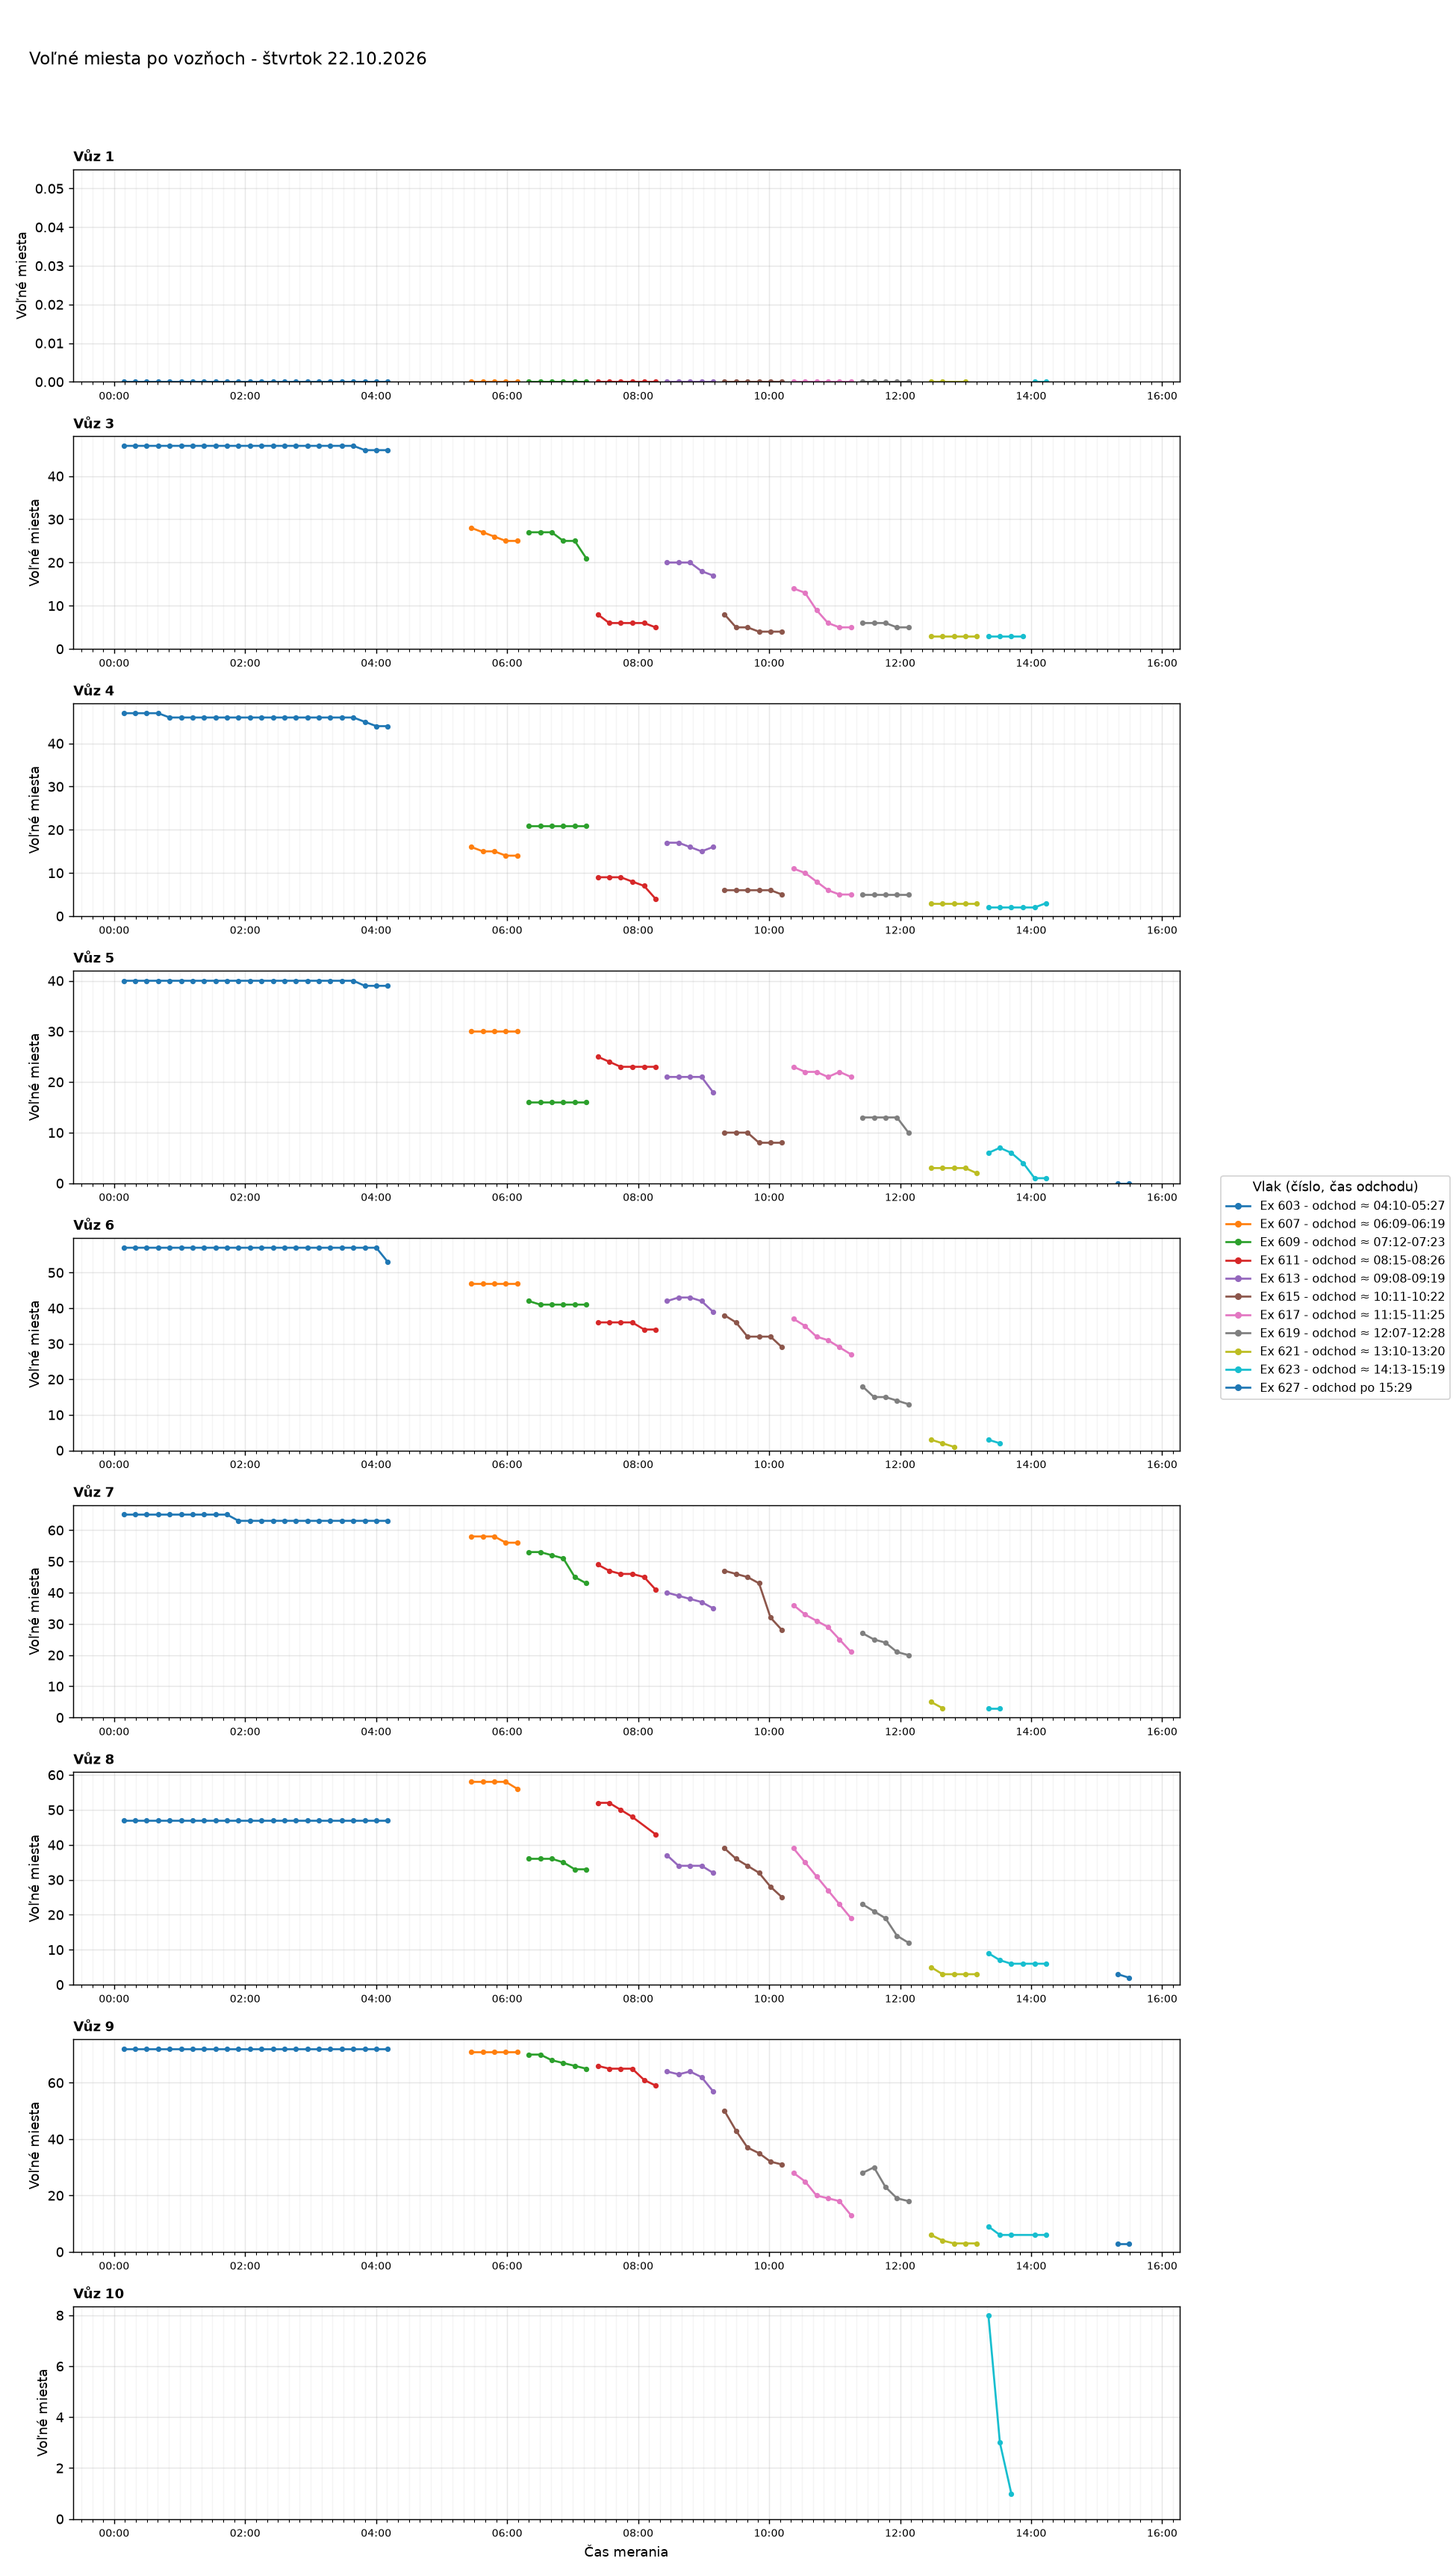
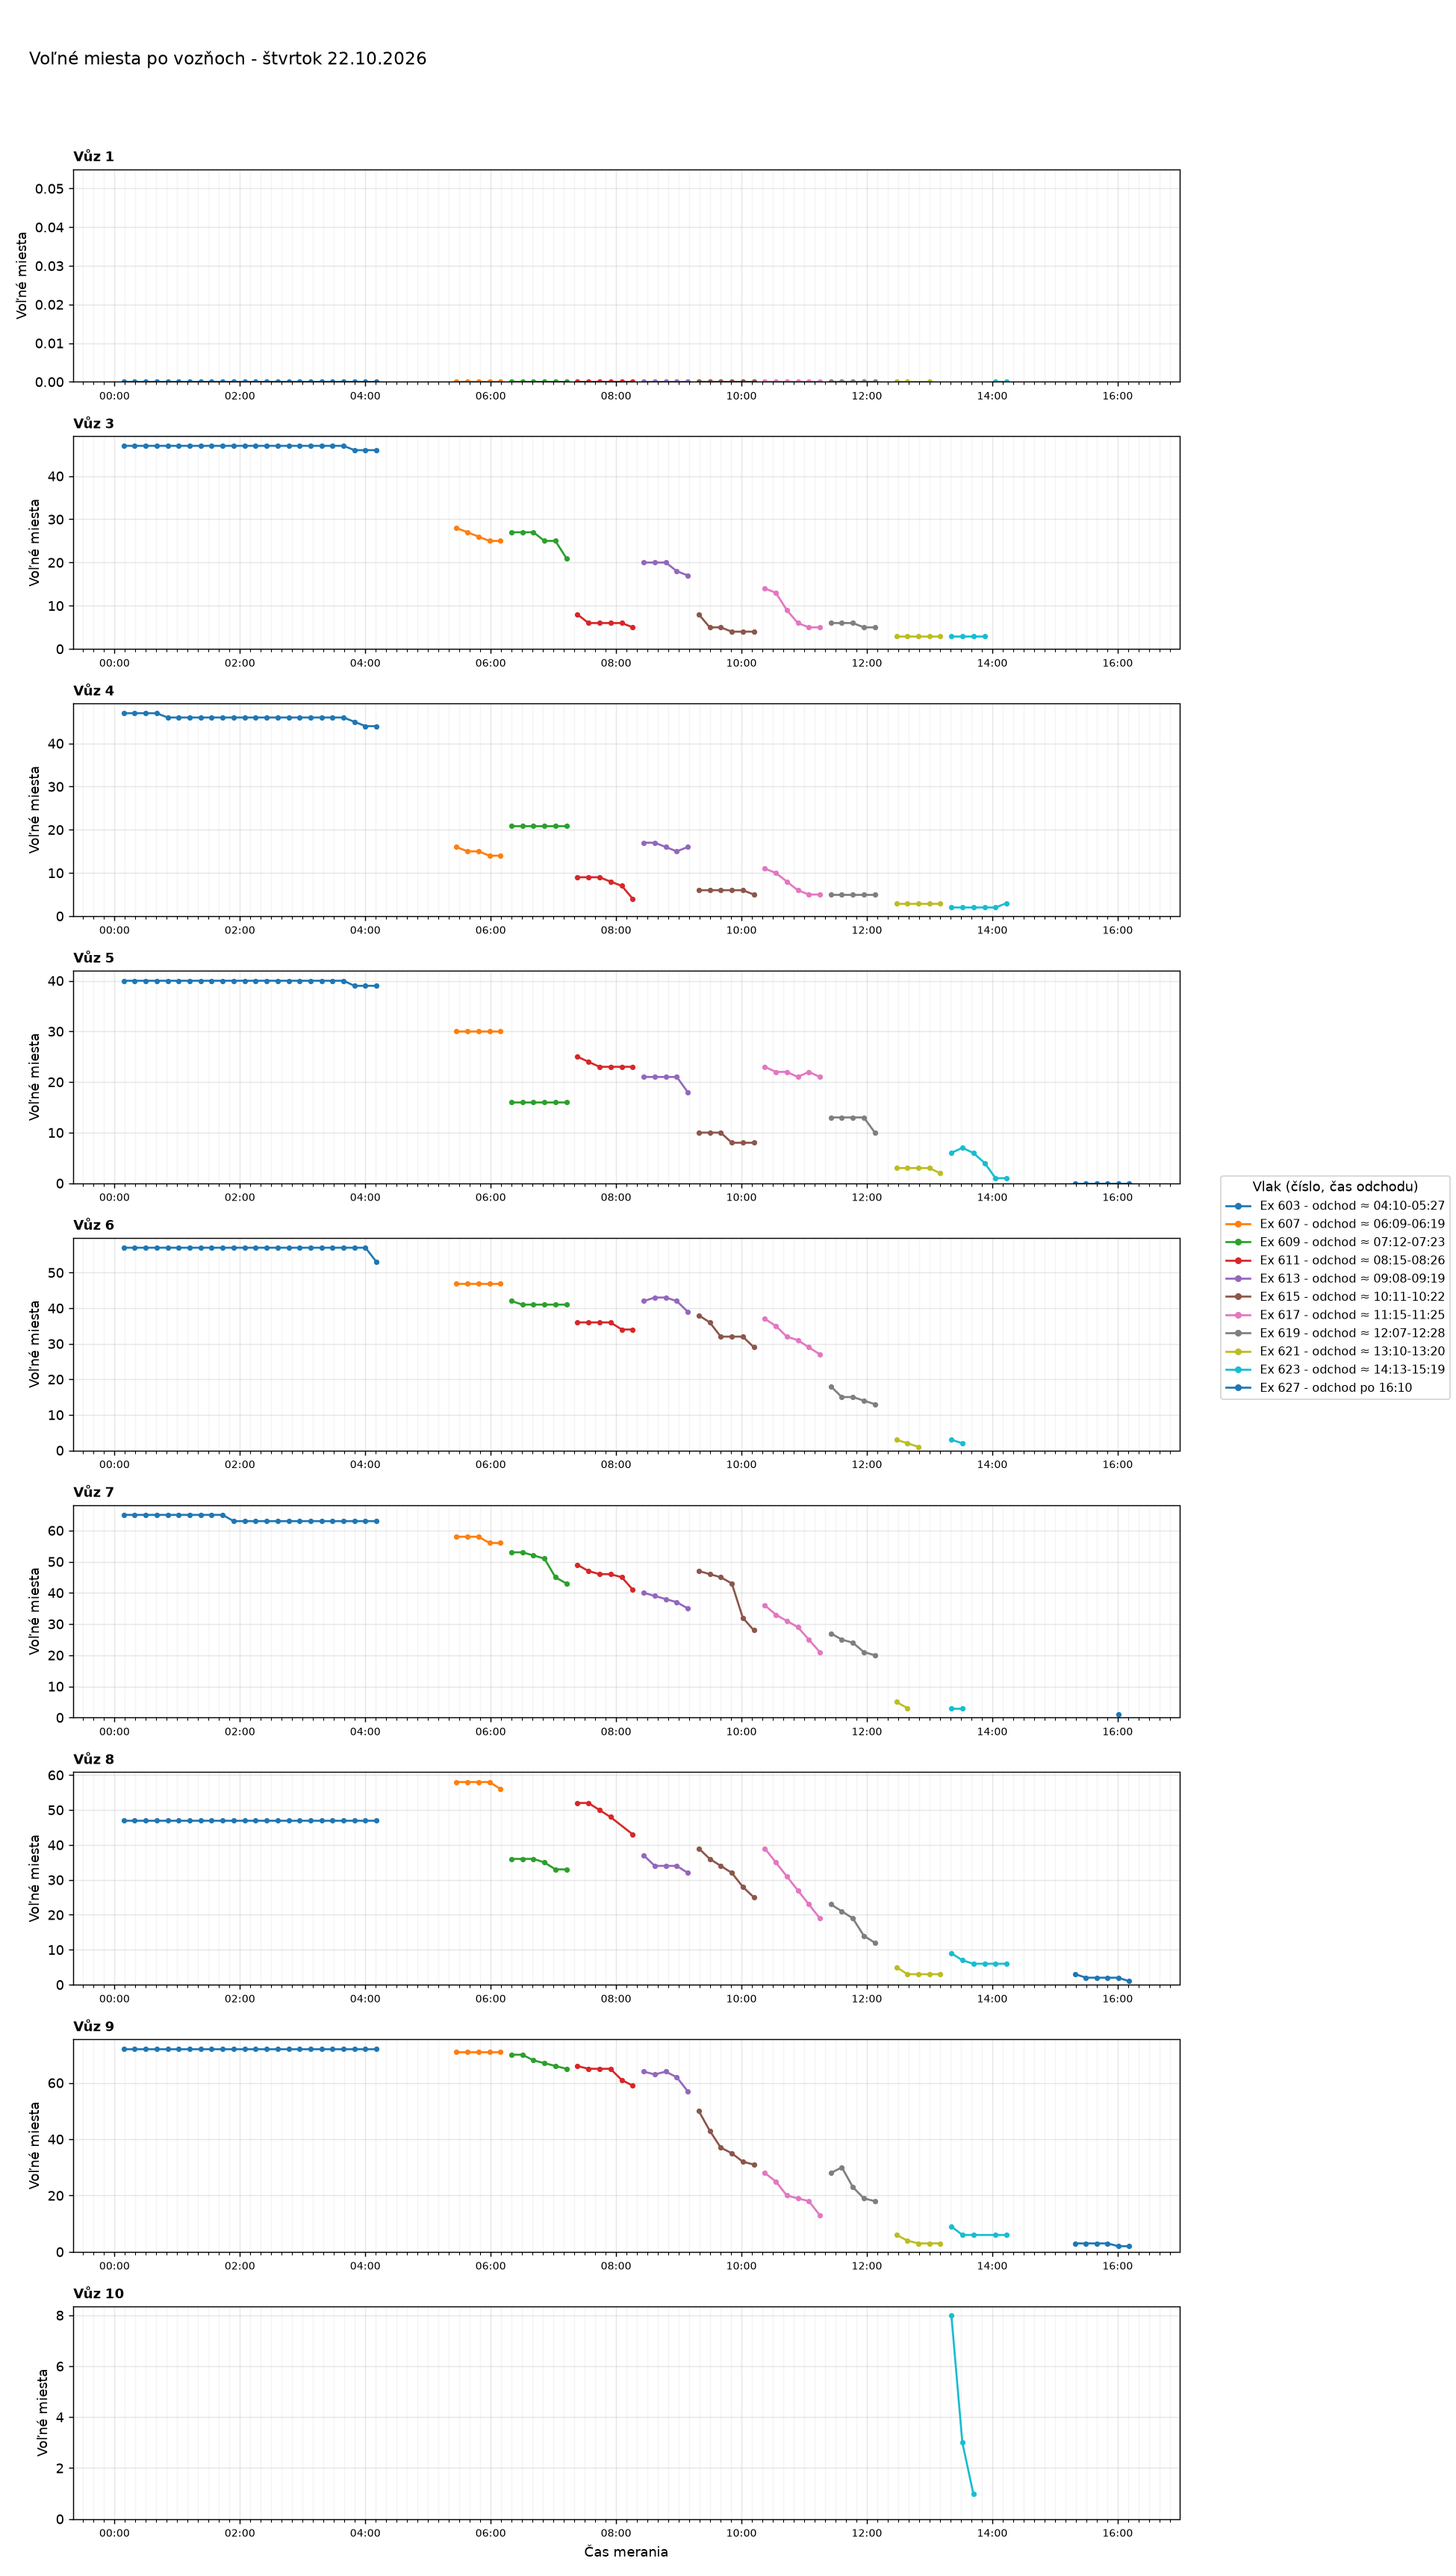
Aktualizácia grafov 2026-10-22 16:38

diff --git a/index.html b/index.html
@@ -35,7 +35,7 @@ h2.oddiel{margin:36px 0 0;font-size:1.4rem}
 <body>
 <main>
 <h1>Voľné miesta vo vlakoch</h1>
-<p class="muted">Posledné meranie: 22.10.2026 15:29 ·
+<p class="muted">Posledné meranie: 22.10.2026 16:10 ·
 <a href="data/obsadenost_data.csv">stiahnuť dáta (CSV)</a></p>
 <nav class="nav"><a href="#suhrn">Súhrn</a><a href="#statistiky">Štatistiky</a><a href="#historia">História grafov</a></nav>
 
@@ -44,7 +44,7 @@ h2.oddiel{margin:36px 0 0;font-size:1.4rem}
 <div class="tablewrap"><table>
 <thead><tr><th>Deň</th><th>Meraní</th><th>Vlakov</th><th>Čas meraní</th></tr></thead>
 <tbody>
-<tr><td><a href="#d2026-10-22">štvrtok 22.10.2026</a></td><td>76</td><td>11</td><td>00:08-15:29</td></tr>
+<tr><td><a href="#d2026-10-22">štvrtok 22.10.2026</a></td><td>80</td><td>11</td><td>00:08-16:10</td></tr>
 <tr><td><a href="#d2026-10-21">streda 21.10.2026</a></td><td>96</td><td>15</td><td>00:10-23:58</td></tr>
 <tr><td><a href="#d2026-10-20">utorok 20.10.2026</a></td><td>34</td><td>7</td><td>13:55-23:50</td></tr>
 </tbody></table></div>
